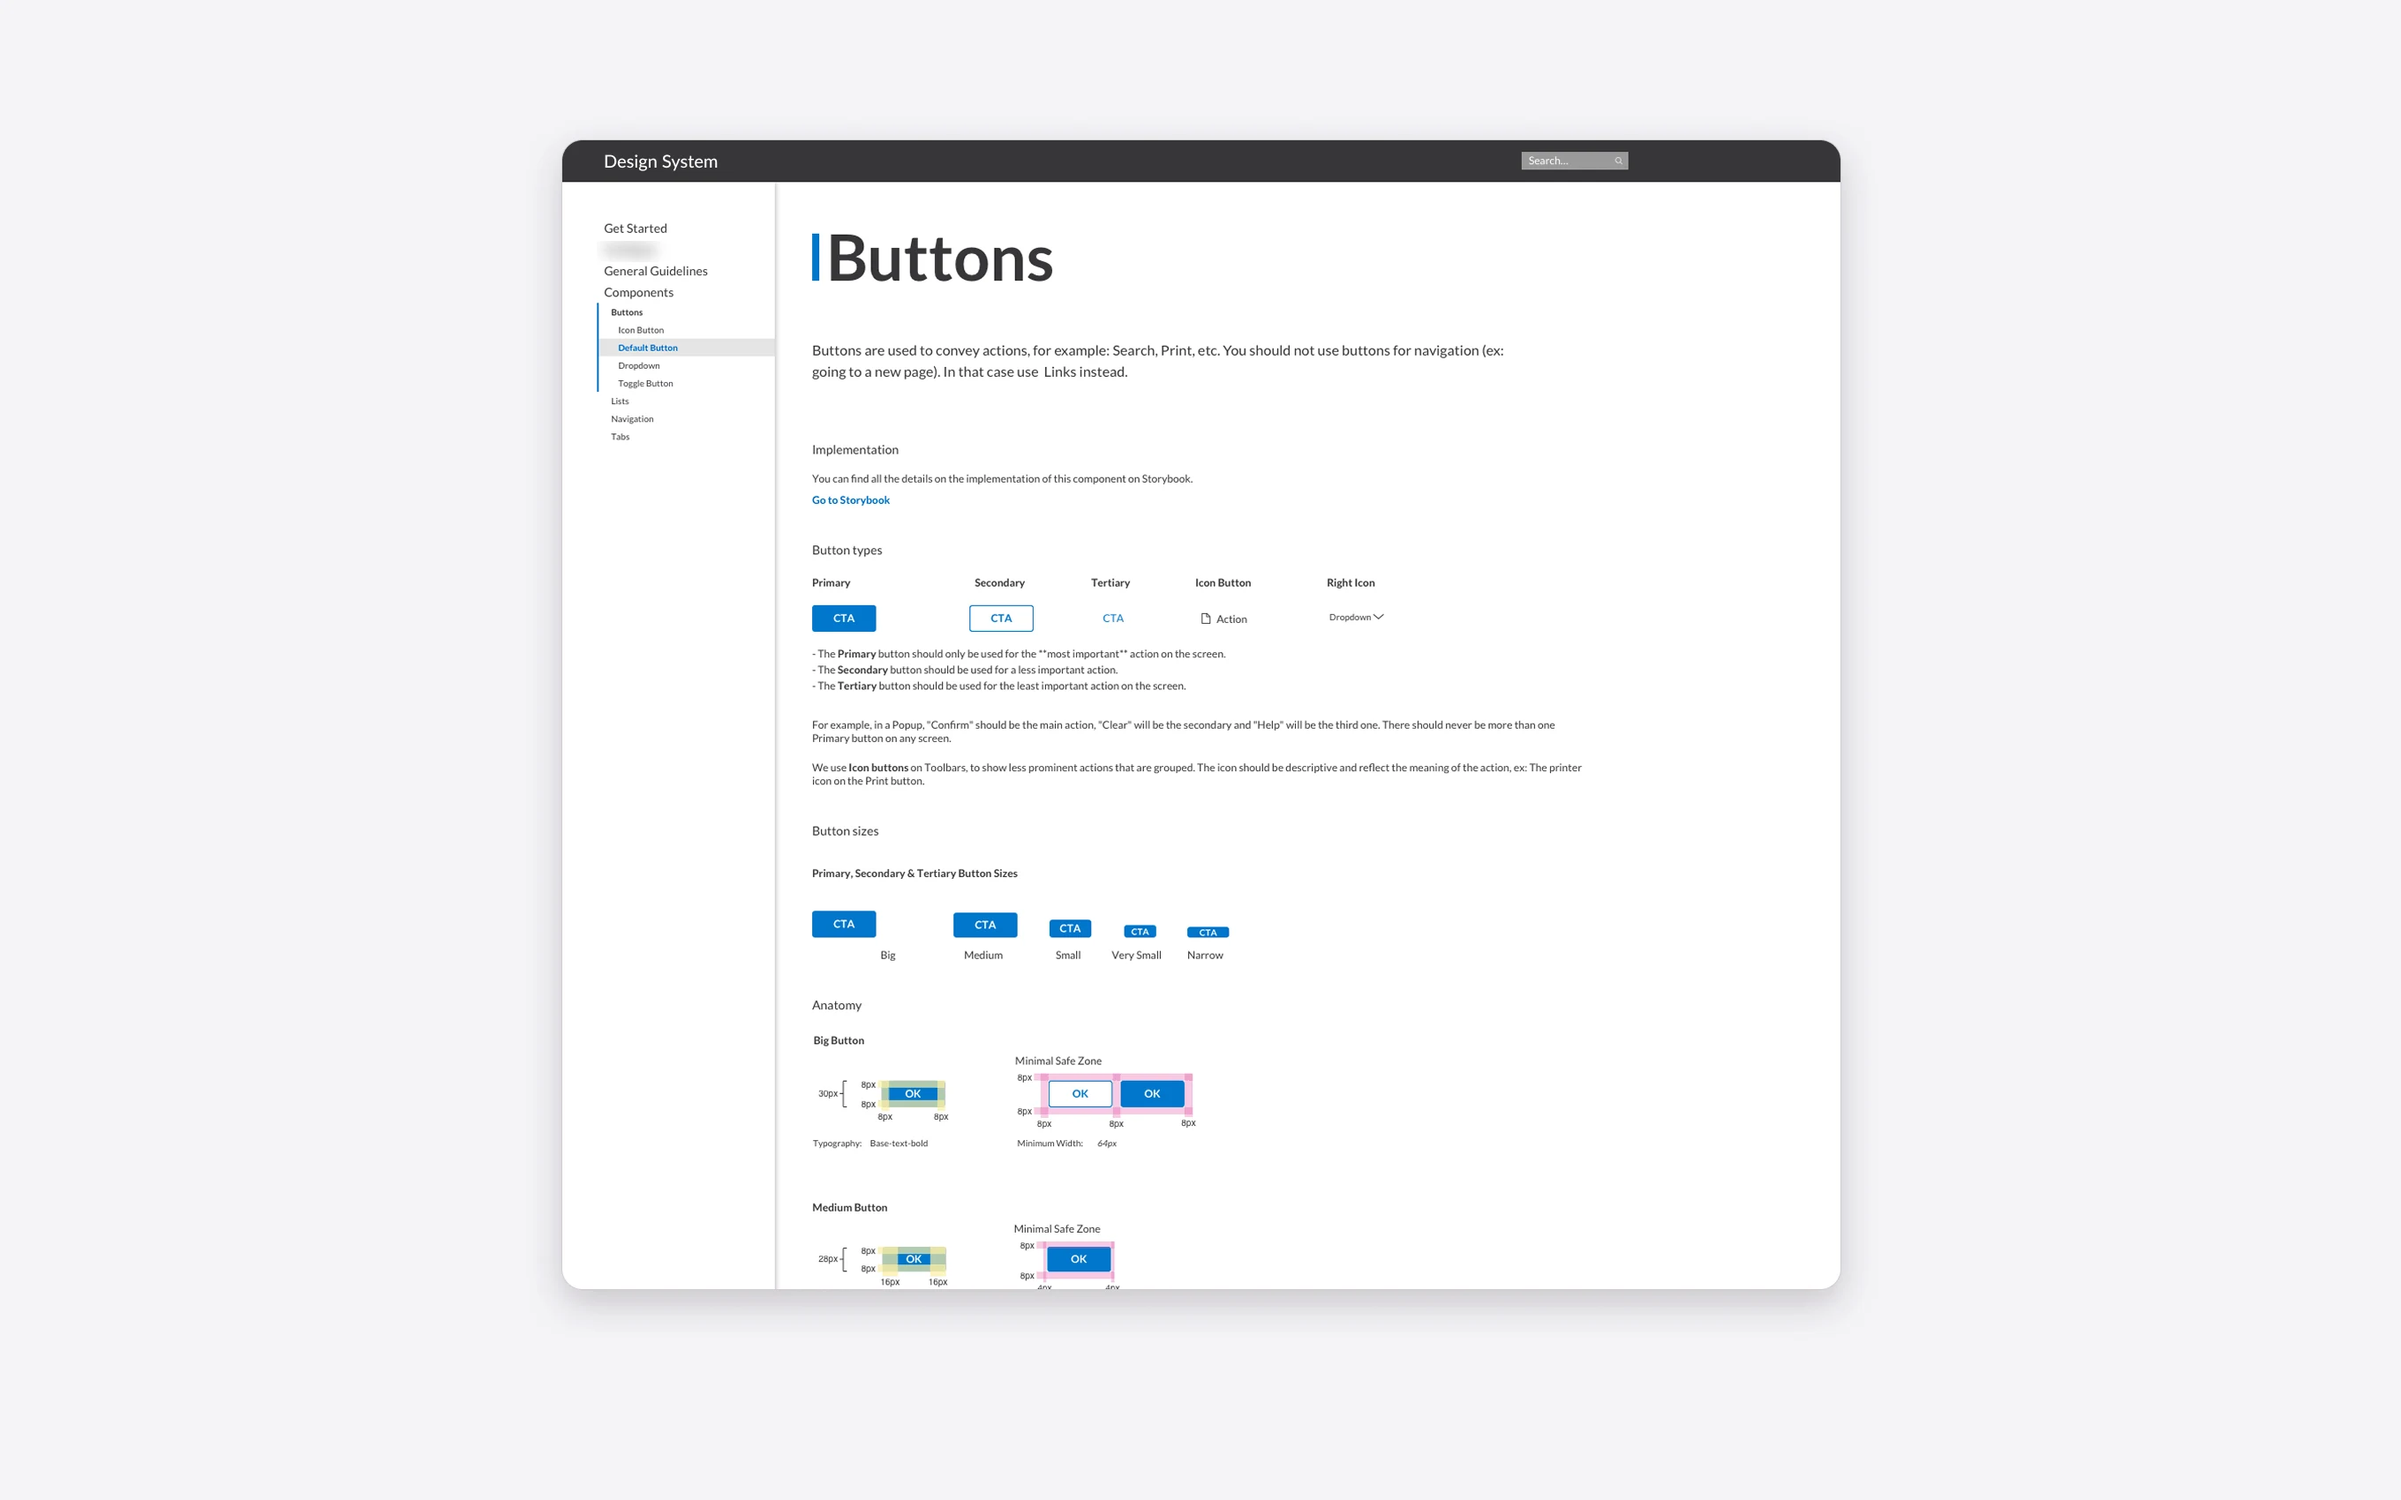
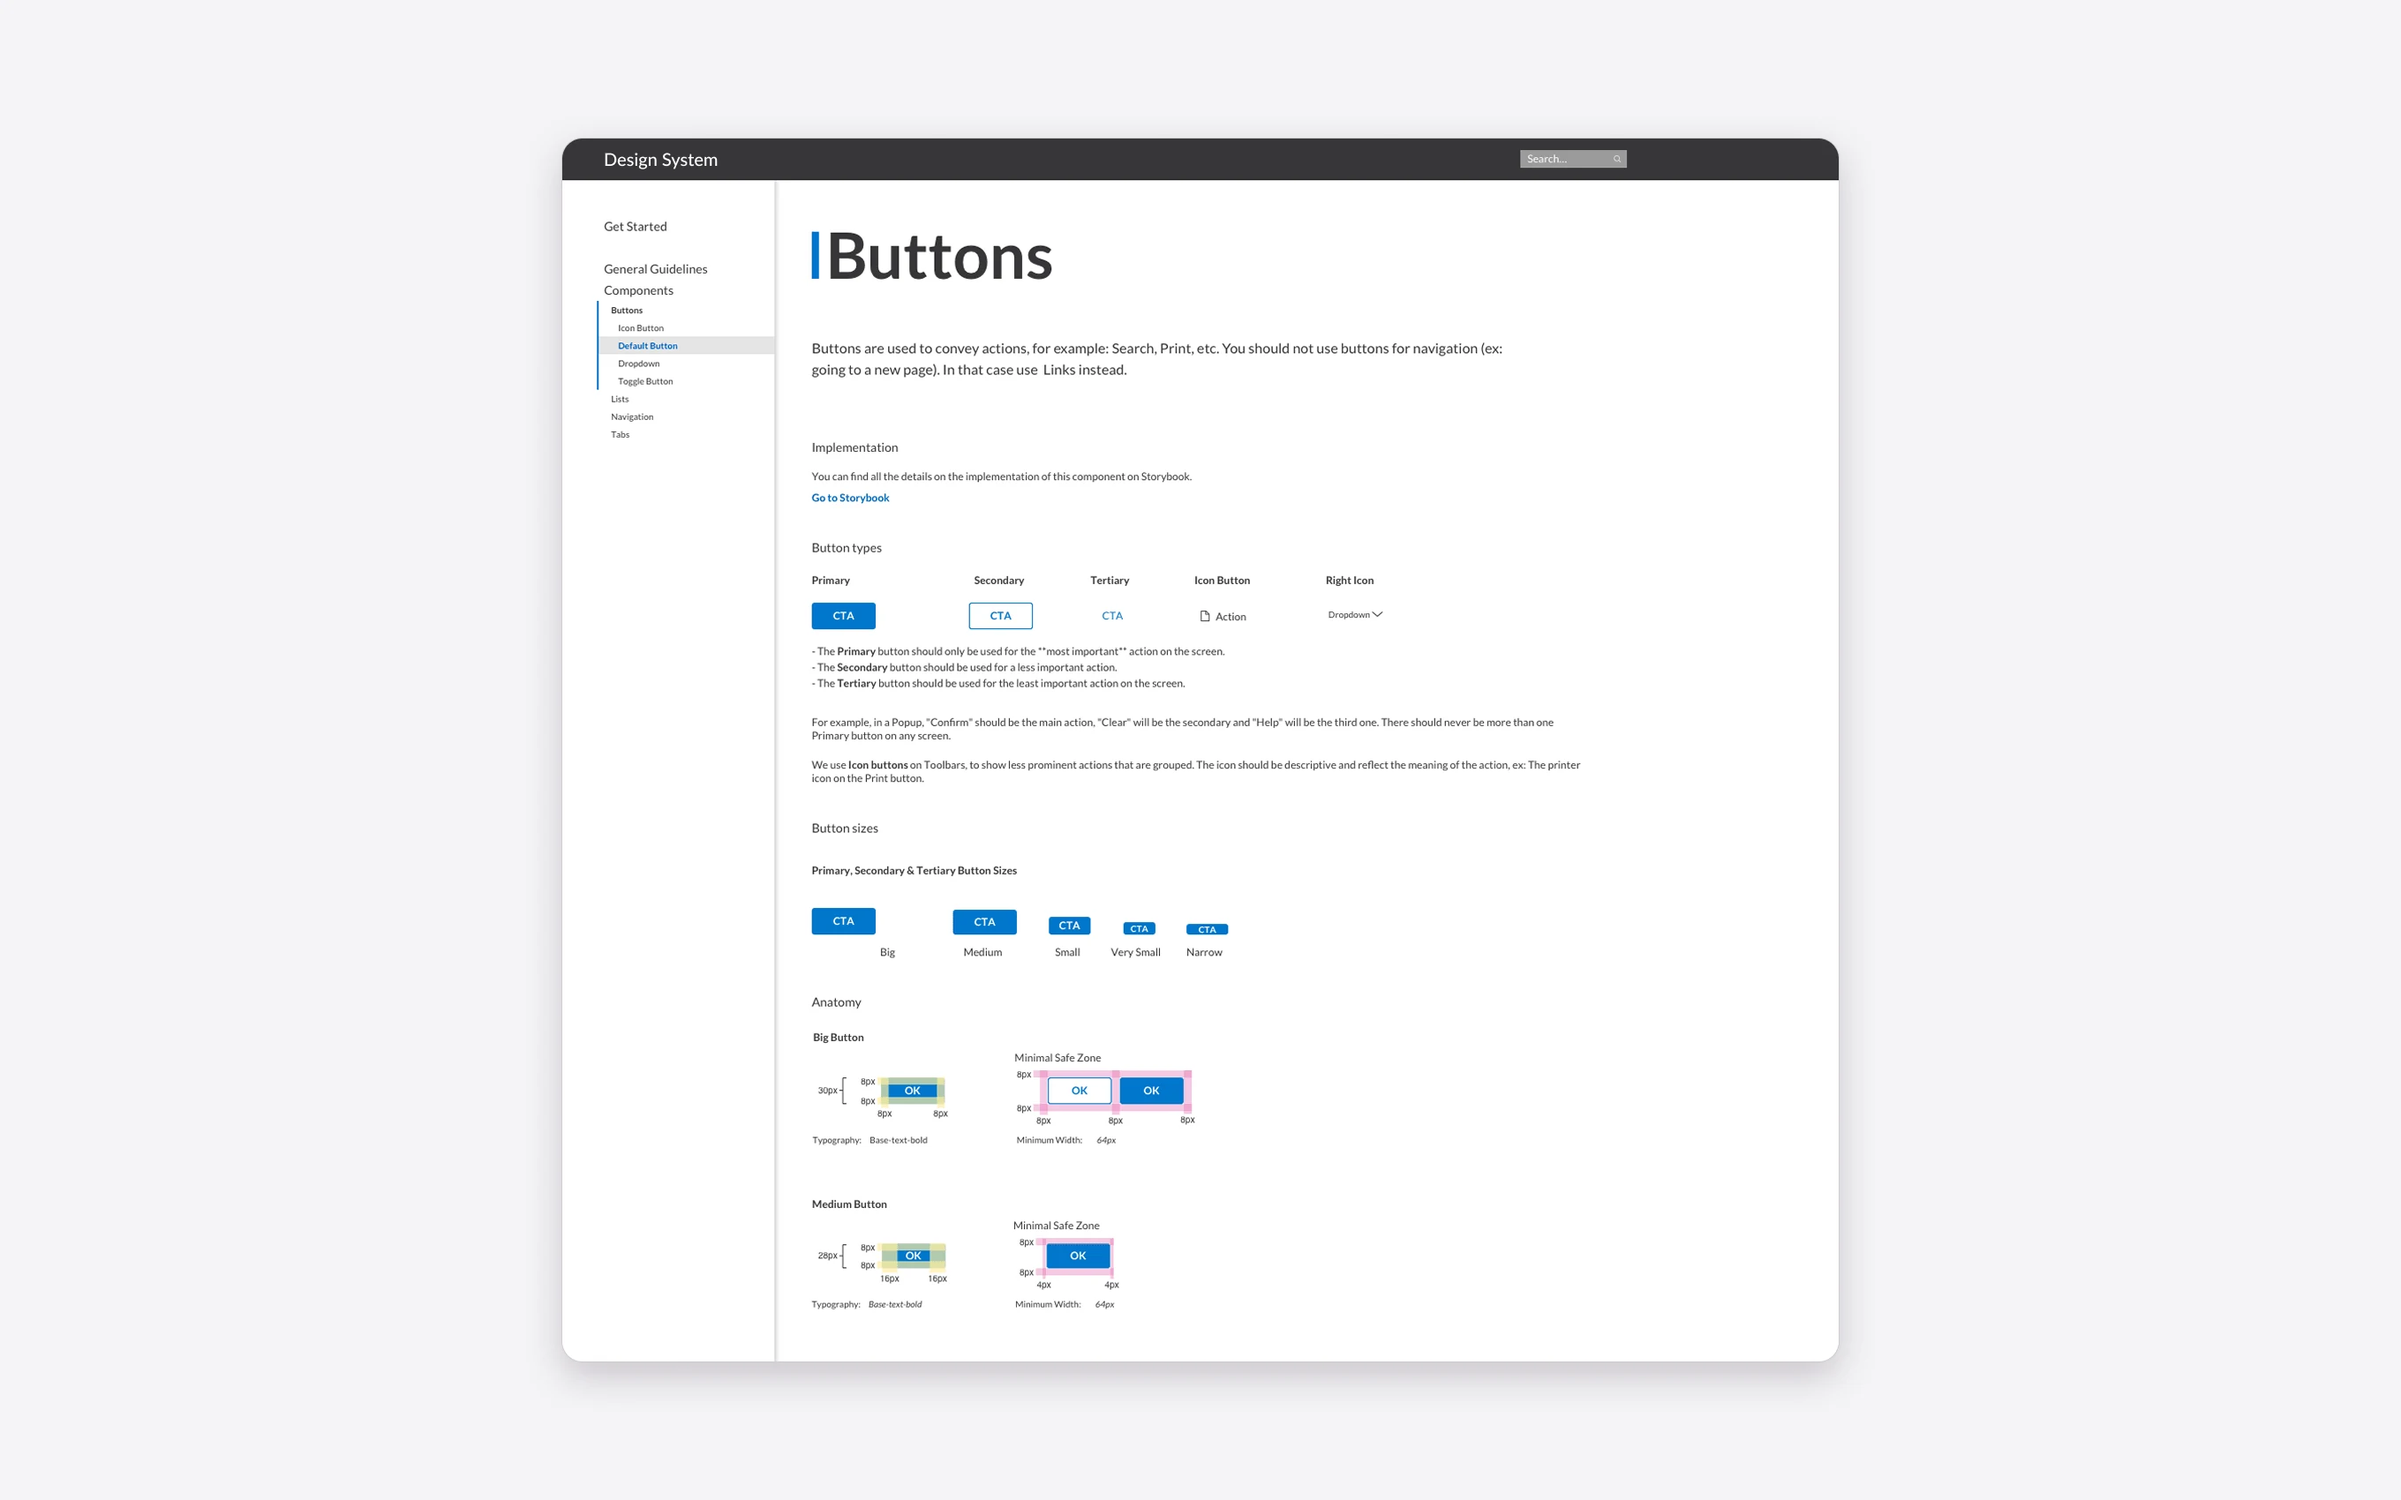
Use the cropped documentation site screenshot (no company name)
Claude-Session: https://claude.ai/code/session_01ScZWVUTFpwZ9XMxsBH4kcu

diff --git a/case-studies/design-system.html b/case-studies/design-system.html
@@ -109,7 +109,7 @@
 <li><strong>Storybook library</strong> built by front-end developers. The documentation site linked each component to its React counterpart.</li>
 </ul>
 <figure class="figure figure--wide">
-<a class="zoom" href="../assets/img/design-system-documentation-full.webp" target="_blank" rel="noopener" aria-label="Open the full-size image in a new tab: Page of the design system documentation site titled Buttons. A left navigation lists Get Started, General Guidelines and Components. The page explains when to use primary, secondary and tertiary buttons, shows the button types and sizes, and gives spacing and safe zone measurements, with a link to Storybook. A company name in the navigation is blurred."><img src="../assets/img/design-system-documentation.webp" data-full="../assets/img/design-system-documentation-full.webp" alt="Page of the design system documentation site titled Buttons. A left navigation lists Get Started, General Guidelines and Components. The page explains when to use primary, secondary and tertiary buttons, shows the button types and sizes, and gives spacing and safe zone measurements, with a link to Storybook. A company name in the navigation is blurred." width="2000" height="1250" loading="lazy"></a>
+<a class="zoom" href="../assets/img/design-system-documentation-full.webp" target="_blank" rel="noopener" aria-label="Open the full-size image in a new tab: Page of the design system documentation site titled Buttons. A left navigation lists Get Started, General Guidelines and Components. The page explains when to use primary, secondary and tertiary buttons, shows the button types and sizes, and gives spacing and safe zone measurements, with a link to Storybook."><img src="../assets/img/design-system-documentation.webp" data-full="../assets/img/design-system-documentation-full.webp" alt="Page of the design system documentation site titled Buttons. A left navigation lists Get Started, General Guidelines and Components. The page explains when to use primary, secondary and tertiary buttons, shows the button types and sizes, and gives spacing and safe zone measurements, with a link to Storybook." width="2000" height="1250" loading="lazy"></a>
 <figcaption>One of the pages of the documentation site.</figcaption>
 </figure>
 
